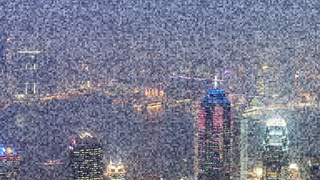
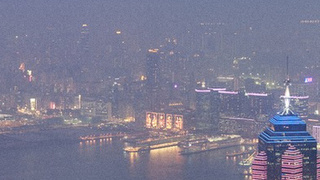
fix(gallery): capture lightning peaks and show motion in still previews

diff --git a/effects/tools/src/main.rs b/effects/tools/src/main.rs
@@ -25,6 +25,7 @@ fn main() -> Result<()> {
     let bloom_identity = args.iter().any(|s| s == "--check-bloom-identity");
     let previews = !args.iter().any(|s| s == "--no-previews");
     let update = args.iter().any(|s| s == "--update-costs");
+    let event_peak = args.iter().any(|s| s == "--event-peak");
     let option = |name: &str, default: &str| {
         args.windows(2)
             .find(|w| w[0] == name)
@@ -33,9 +34,18 @@ fn main() -> Result<()> {
     let out = PathBuf::from(option("--out", "C:/mypaper-targets/effects-sheet"));
     let photo = PathBuf::from(option("--photo", "themes/rain-city-amber/media/city.jpg"));
     let only = option("--only", "");
+    let mouse = option("--mouse", "0.63,0.42");
+    let (mouse_x, mouse_y) = mouse.split_once(',').context("--mouse is X,Y in 0..1")?;
+    let mouse = [mouse_x.parse::<f32>()?, mouse_y.parse::<f32>()?];
+    anyhow::ensure!(
+        mouse
+            .iter()
+            .all(|v| v.is_finite() && (0.0..=1.0).contains(v)),
+        "--mouse is X,Y in 0..1"
+    );
     let values: BTreeMap<String, Value> = serde_json::from_str(&option("--params", "{}"))?;
     anyhow::ensure!(
-        !update || values.is_empty(),
+        !update || (values.is_empty() && !event_peak),
         "costs must be measured at defaults"
     );
     let lab = if rendering || finite || bloom_identity {
@@ -50,6 +60,8 @@ fn main() -> Result<()> {
                 .find(|w| w[0] == "--time")
                 .map(|w| w[1].parse())
                 .transpose()?,
+            mouse,
+            event_peak,
         )?)
     } else {
         None
@@ -76,9 +88,9 @@ fn main() -> Result<()> {
             sources.push(source);
             count += 1;
         }
-        // Reference packages get thumbnails only when explicitly requested; never edit their costs.
+        // These reference packages remain owned elsewhere; grain belongs to the effect lab.
         let id = manifest["id"].as_str().unwrap().to_owned();
-        let reference = ["rain", "blur", "color", "vignette", "grain"].contains(&id.as_str());
+        let reference = ["rain", "blur", "color", "vignette"].contains(&id.as_str());
         if reference && !missing_previews && !include_reference {
             continue;
         }
@@ -225,6 +237,8 @@ struct Lab {
     integrated: bool,
     clock_hours: f32,
     time: Option<f32>,
+    mouse: [f32; 2],
+    event_peak: bool,
 }
 
 impl Lab {
@@ -234,6 +248,8 @@ impl Lab {
         clock_hours: f32,
         different_original: bool,
         time: Option<f32>,
+        mouse: [f32; 2],
+        event_peak: bool,
     ) -> Result<Self> {
         let mut descriptor = wgpu::InstanceDescriptor::new_without_display_handle();
         descriptor.backends = wgpu::Backends::DX12;
@@ -373,6 +389,8 @@ impl Lab {
             integrated: info.device_type == wgpu::DeviceType::IntegratedGpu,
             clock_hours,
             time,
+            mouse,
+            event_peak,
         })
     }
 
@@ -409,11 +427,18 @@ impl Lab {
                 (f64::from(HEIGHT) * scale).round() as u32,
                 format,
             ));
+            // Compute the representative flash time with the shader's own hash. CPU/GPU
+            // floating-point contraction can shift this short flash outside a CPU-picked frame.
+            let source = if self.event_peak && id == "lightning" {
+                source.replace("paper.time", "(hash21(vec2f(0.0, 17.0)) * 0.5 * 60.0 / clamp(params.frequency, 0.5, 15.0) + 0.01)")
+            } else {
+                source.clone()
+            };
             let shader = self
                 .device
                 .create_shader_module(wgpu::ShaderModuleDescriptor {
                     label: Some(id),
-                    source: wgpu::ShaderSource::Wgsl(source.clone().into()),
+                    source: wgpu::ShaderSource::Wgsl(source.into()),
                 });
             pipelines.push(
                 self.device
@@ -542,8 +567,8 @@ impl Lab {
                 let paper: [f32; 8] = [
                     w,
                     h,
-                    w * 0.63,
-                    h * 0.42,
+                    w * self.mouse[0],
+                    h * self.mouse[1],
                     self.time
                         .unwrap_or_else(|| capture_time(manifest, id, values, frame)),
                     f32::from_bits(frame),

diff --git a/effects/tools/render_gallery.py b/effects/tools/render_gallery.py
@@ -78,12 +78,36 @@ def main():
                    '--clock-hours', str(recipe.get('clock_hours', 17.5))]
         if 'time' in recipe:
             command.extend(['--time', str(recipe['time'])])
+        if 'mouse' in recipe:
+            command.extend(['--mouse', ','.join(map(str, recipe['mouse']))])
+        if recipe.get('event_peak'):
+            command.append('--event-peak')
         subprocess.run(command, cwd=ROOT, check=True)
         rendered = Image.open(folder / (effect_id + '.jpg')).convert('RGB')
+        # A still card can convey cursor/wind travel with two actual displaced frames.
+        if 'motion' in recipe:
+            first = rendered.copy()
+            motion = recipe['motion']
+            second_command = command.copy()
+            for key in ('time', 'mouse'):
+                if key not in motion:
+                    continue
+                flag = '--' + key
+                value = ','.join(map(str, motion[key])) if key == 'mouse' else str(motion[key])
+                if flag in second_command:
+                    second_command[second_command.index(flag) + 1] = value
+                else:
+                    second_command.extend([flag, value])
+            first.save(folder / 'motion-first.jpg', quality=95, subsampling=0)
+            subprocess.run(second_command, cwd=ROOT, check=True)
+            second = Image.open(folder / (effect_id + '.jpg')).convert('RGB')
+            second.save(folder / 'motion-second.jpg', quality=95, subsampling=0)
+            rendered = Image.blend(first, second, motion.get('blend', 0.38))
+            rendered.save(folder / (effect_id + '.jpg'), quality=95, subsampling=0)
         thumbnail = ImageOps.fit(crop(rendered, recipe.get('detail')), (320, 180), method=Image.Resampling.LANCZOS)
         package = ROOT / 'effects' / effect_id
         thumbnail.save(package / 'preview.jpg', quality=95, subsampling=0)
-        if effect_id not in REFERENCES:
+        if effect_id not in REFERENCES or effect_id == 'grain':
             credits_path = package / 'CREDITS.txt'
             software = credits_path.read_text().split('Preview photograph: separate license')[0]
             credits_path.write_text(software + 'Preview photograph: separate license\n'

diff --git a/effects/tools/README.md b/effects/tools/README.md
@@ -35,9 +35,9 @@ Measurements use the integrated DX12 adapter when available: three warmup frames
 the median of 24 frames of GPU timestamps, summed over every pass at its declared scale.
 They include effect render passes; upload, readback, stack mixing and presentation are excluded.
 Only `--update-costs` writes manifests. A discrete-GPU fallback leaves `cost_estimated: true`.
-The engine agent's rain, blur, color, vignette and grain packages are validated by default.
+The engine agent's rain, blur, color and vignette packages are validated by default.
 `--missing-previews` explicitly adds any absent thumbnails, including those reference packages;
-their manifests, costs and shaders are never modified by the tool.
+their manifests, costs and shaders are never modified by the tool. Grain is owned and measured here.
 
 All library shaders are original MIT-licensed mypaper code; the package URL identifies the source.
 Each package's `CREDITS.txt` carries the MIT notice and its preview's separate photo attribution.
@@ -57,8 +57,8 @@ Bloom blurs highlights in two half-scale Gaussian passes, then composites over `
 
 `gallery.json` records a recipe for every card: source photograph, crop, representative time,
 clock hour and any showcase parameter overrides. Most cards use the effect defaults. Light
-positions are aligned to the source; Film looks demonstrates its noir option; the five engine
-effects use stronger showcase settings without changing their manifests or shaders. A `detail`
+positions are aligned to the source; Film looks demonstrates its noir option; reference
+effects use showcase settings without changing their manifests or shaders. A `detail`
 crop is taken after rendering, so fine grain and sharpening remain visible in a thumbnail.
 Each owned package retains the software license and the correct source-photo credit.
 
@@ -74,11 +74,22 @@ beside the captures, and full-resolution renders plus input photos and recipes i
 Use the city, forest and daytime captures to judge defaults separately from showcase presets.
 All captures and measurements stay offscreen and never start the live wallpaper engine.
 
-The lab's `--include-reference` explicitly includes rain, blur, color, vignette and grain for
-rendering or finite checks, while `--update-costs` still never edits those five manifests.
+The lab's `--include-reference` explicitly includes rain, blur, color and vignette for
+rendering or finite checks, while `--update-costs` still never edits those four manifests.
 `--params '{...}'` supplies showcase overrides; combining nonempty overrides with
 `--update-costs` is rejected so published costs always describe defaults. `--time <seconds>`
 pins animation time, independent of `--clock-hours`. JPEG captures use quality 95.
+
+`--mouse X,Y` supplies normalized cursor coordinates without moving the real cursor. Gallery
+recipes can provide a second `motion` frame (time and/or mouse) and blend the two real renders
+into a still double exposure. Cursor depth, Gentle wind and Slow camera drift use this to show
+displacement. Lightning uses `--event-peak`: its representative time is computed with the GPU's
+own hash, avoiding CPU/GPU floating-point differences that can miss a short flash. Event peaks
+are showcase captures and cannot be used with `--update-costs`.
+
+Snow generates three independently drifting depth planes at half resolution and composites the
+flake field over the sharp layer input. Grain's default is fine monochrome noise, with less weight
+in deep shadows and bright highlights. Both costs are measured at defaults on the integrated GPU.
 
 Clouds computes its fractal field at quarter resolution and composites over the sharp input.
 Dream glow uses two quarter-resolution Gaussian passes and a full-resolution screen blend.
